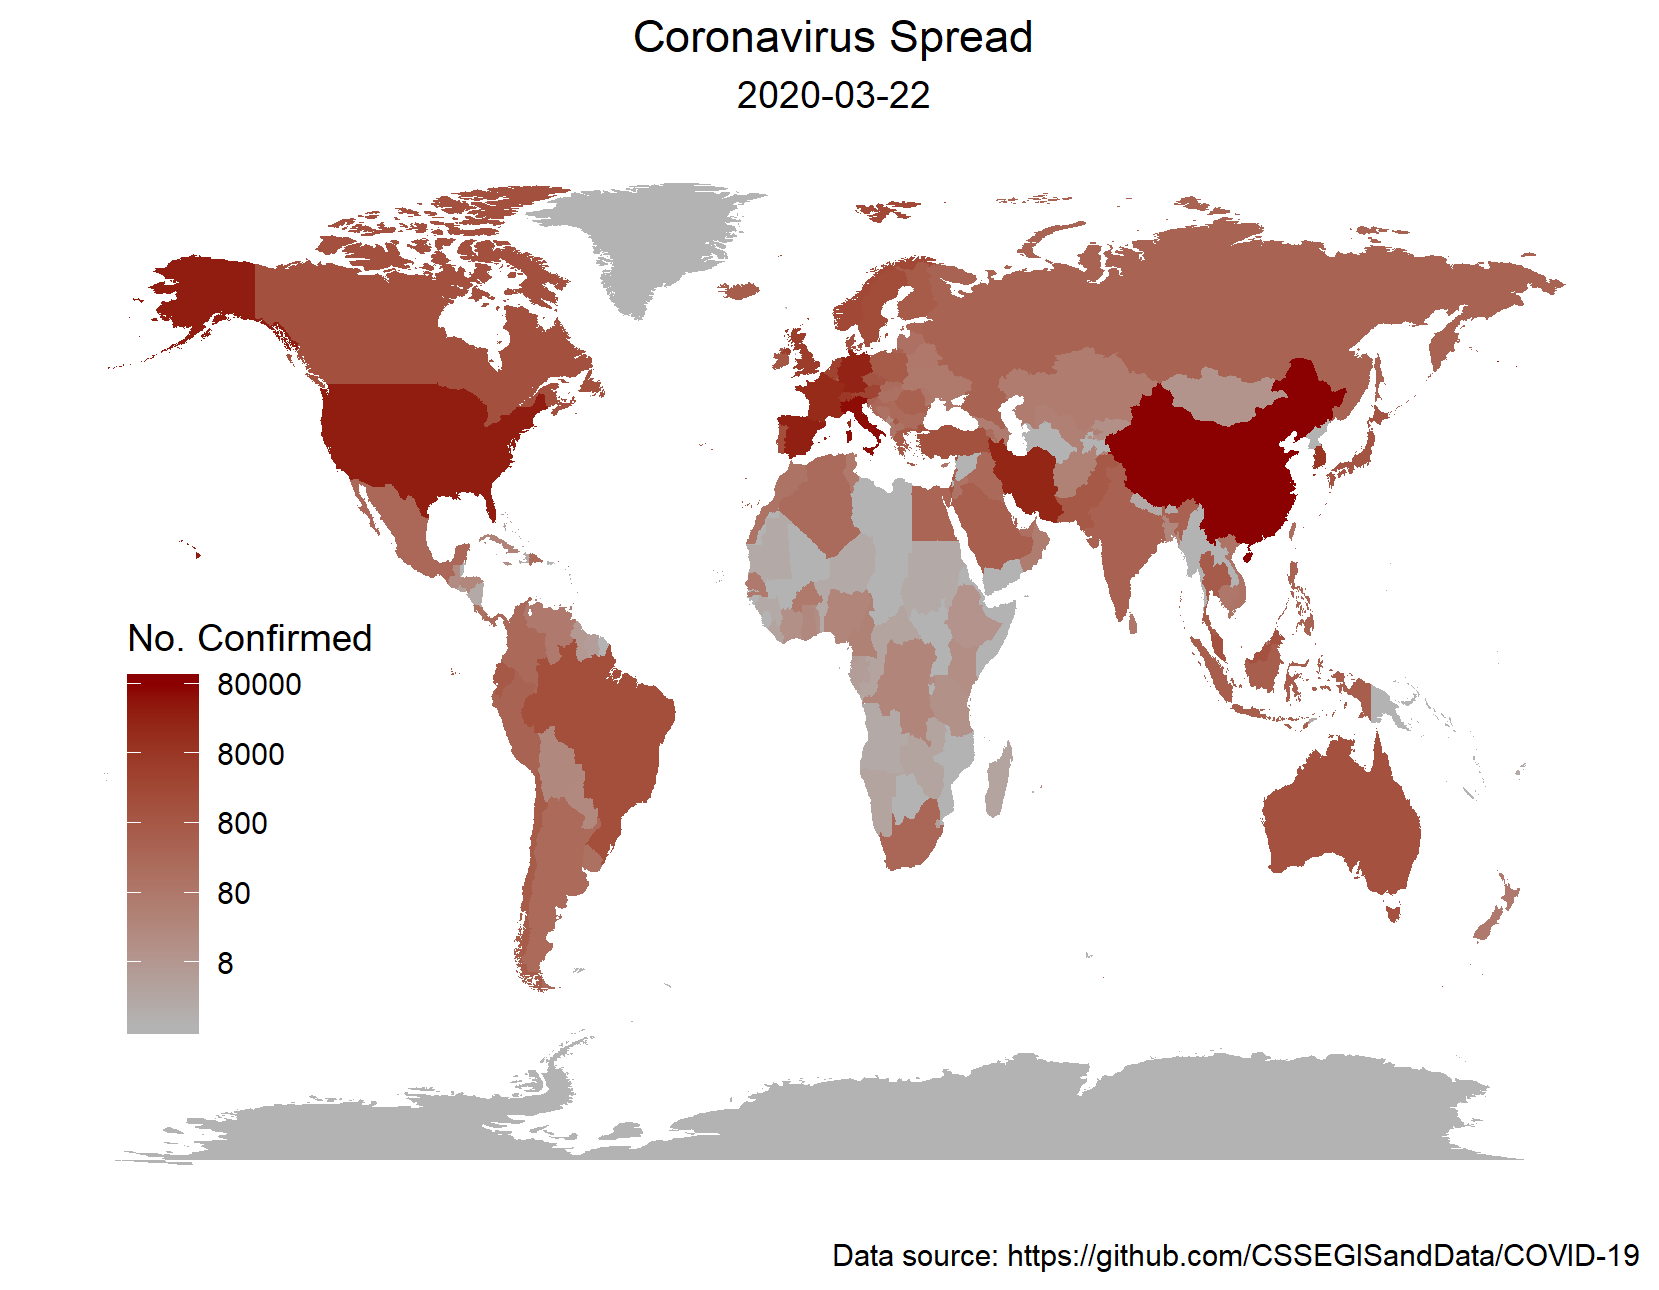
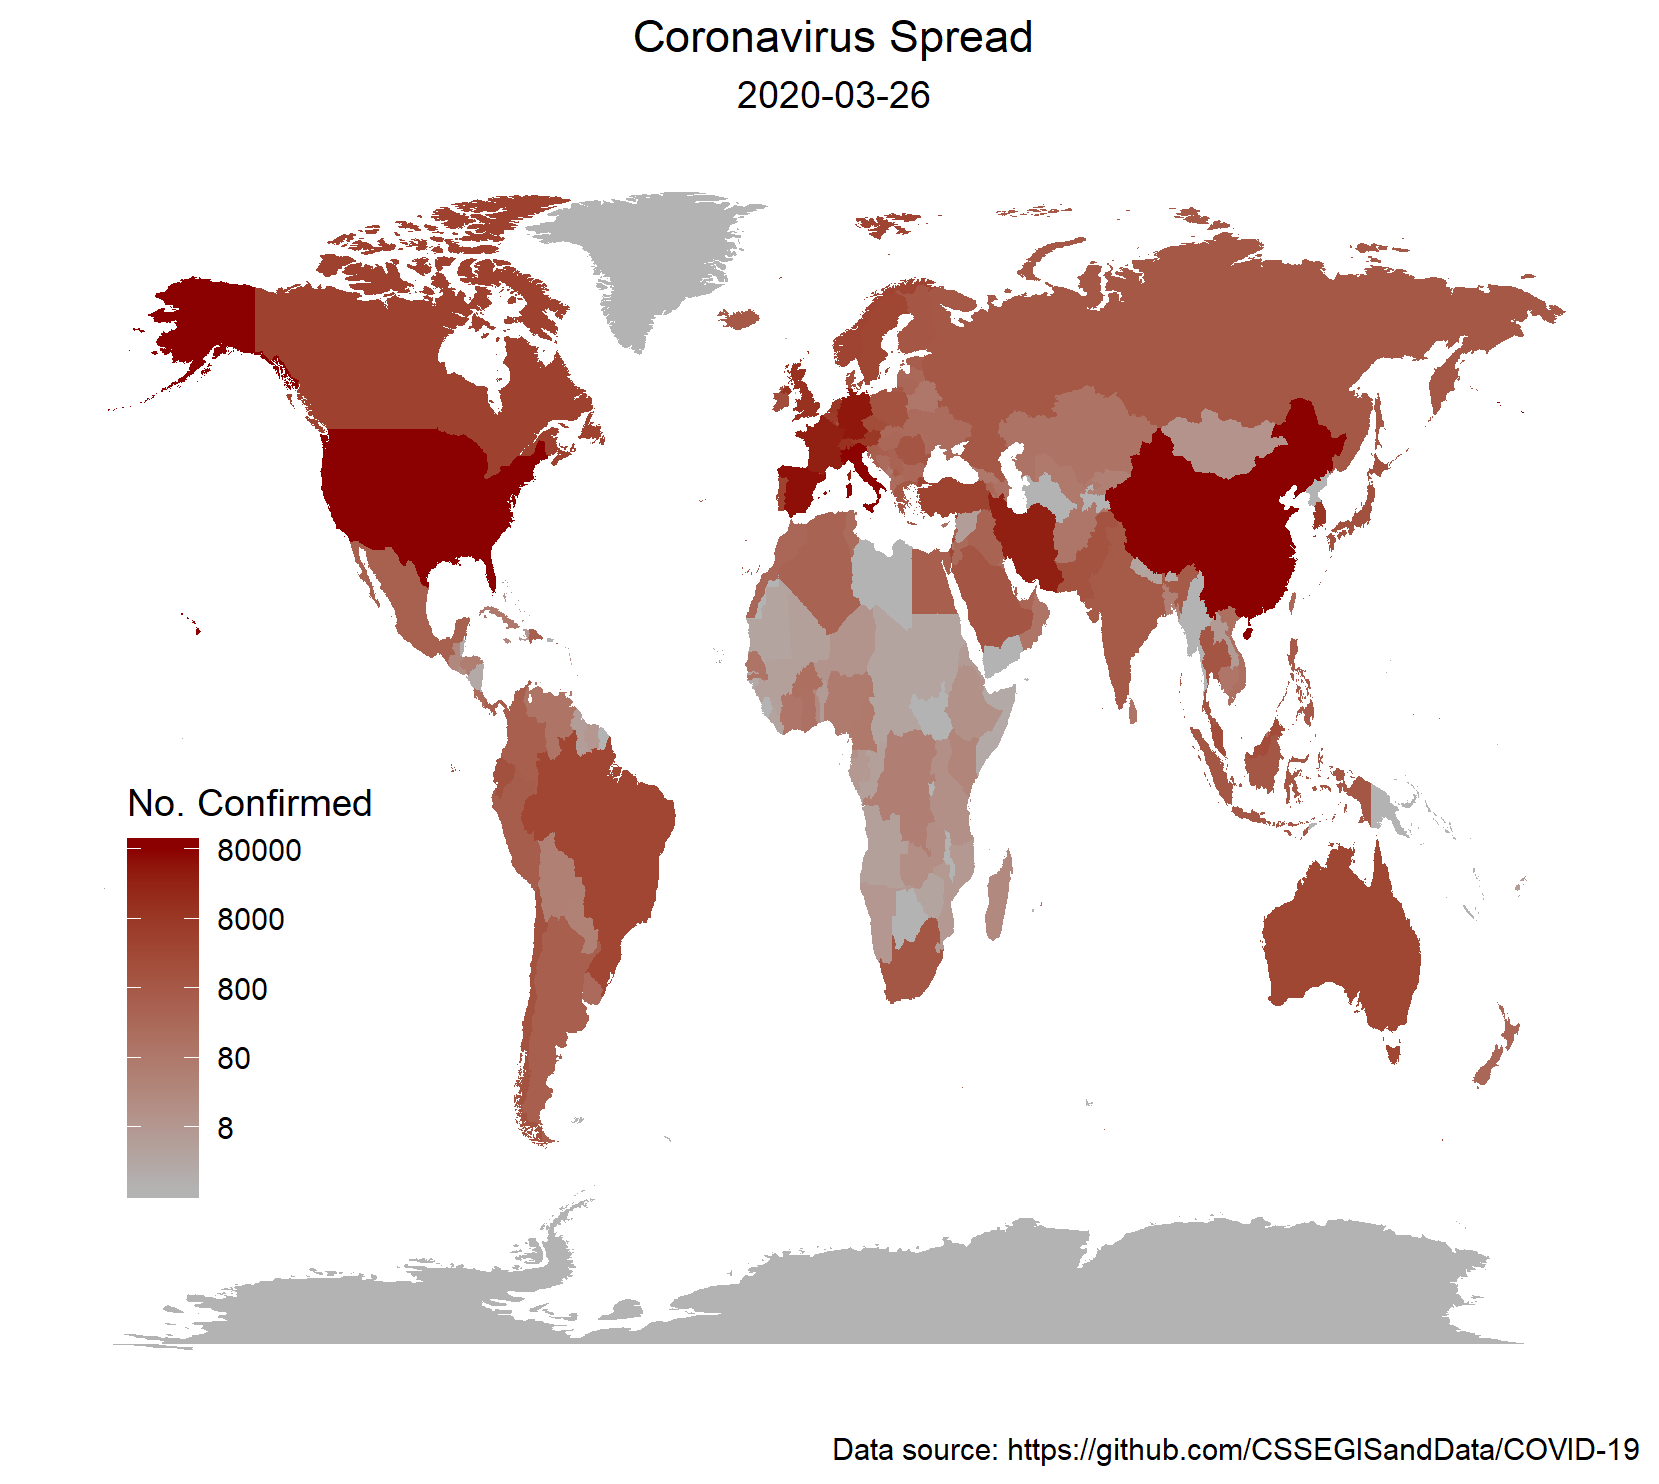
Updated to new John Hopkins CSSE times series files

diff --git a/README.md b/README.md
@@ -14,6 +14,6 @@ Take a look at the visualizations and the code that created these visualizations
 2. Clone this repository. The files in the previous repository and this repository can all be in the same folder, if you'd like.
 3. Open "virus_spread.R" and "virus_map.R" in RStudio.
 4. In each of these files, immediately after the `library()` statements, change the file paths to match the appropriate location of the file on your own computer.
-  * The dataset containing the confirmed number of cases of COVID-19 is contained in the John Hopkins CSSE GitHub GitHub repository path: **"csse_covid_19_data/csse_covid_19_time_series/time_series_19-covid-Confirmed.csv"**
-  * The dataset containing the confirmed number of deaths resulting from COVID-19 is contained in the John Hopkins CSSE GitHub repository path: **"csse_covid_19_data/csse_covid_19_time_series/time_series_19-covid-Deaths.csv"**
+  * The dataset containing the confirmed number of cases of COVID-19 is contained in the John Hopkins CSSE GitHub GitHub repository path: **"csse_covid_19_data/csse_covid_19_time_series/time_series_covid19_confirmed_global.csv"**
+  * The dataset containing the confirmed number of deaths resulting from COVID-19 is contained in the John Hopkins CSSE GitHub repository path: **"GitHub/COVID-19/csse_covid_19_data/csse_covid_19_time_series/time_series_covid19_deaths_global.csv"**
 5. Run code and view output.
